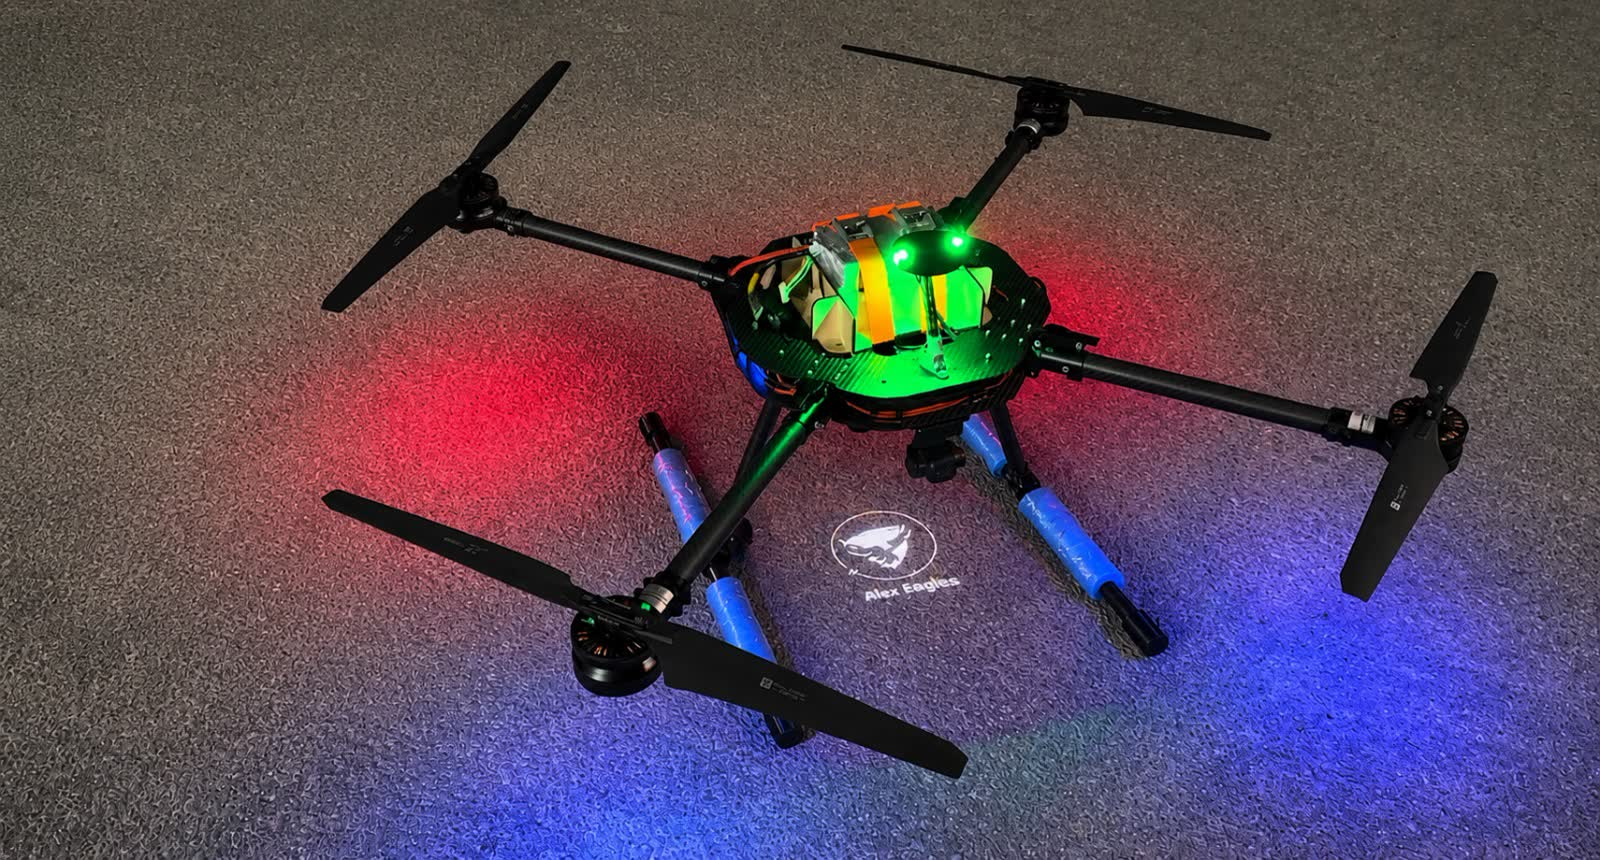
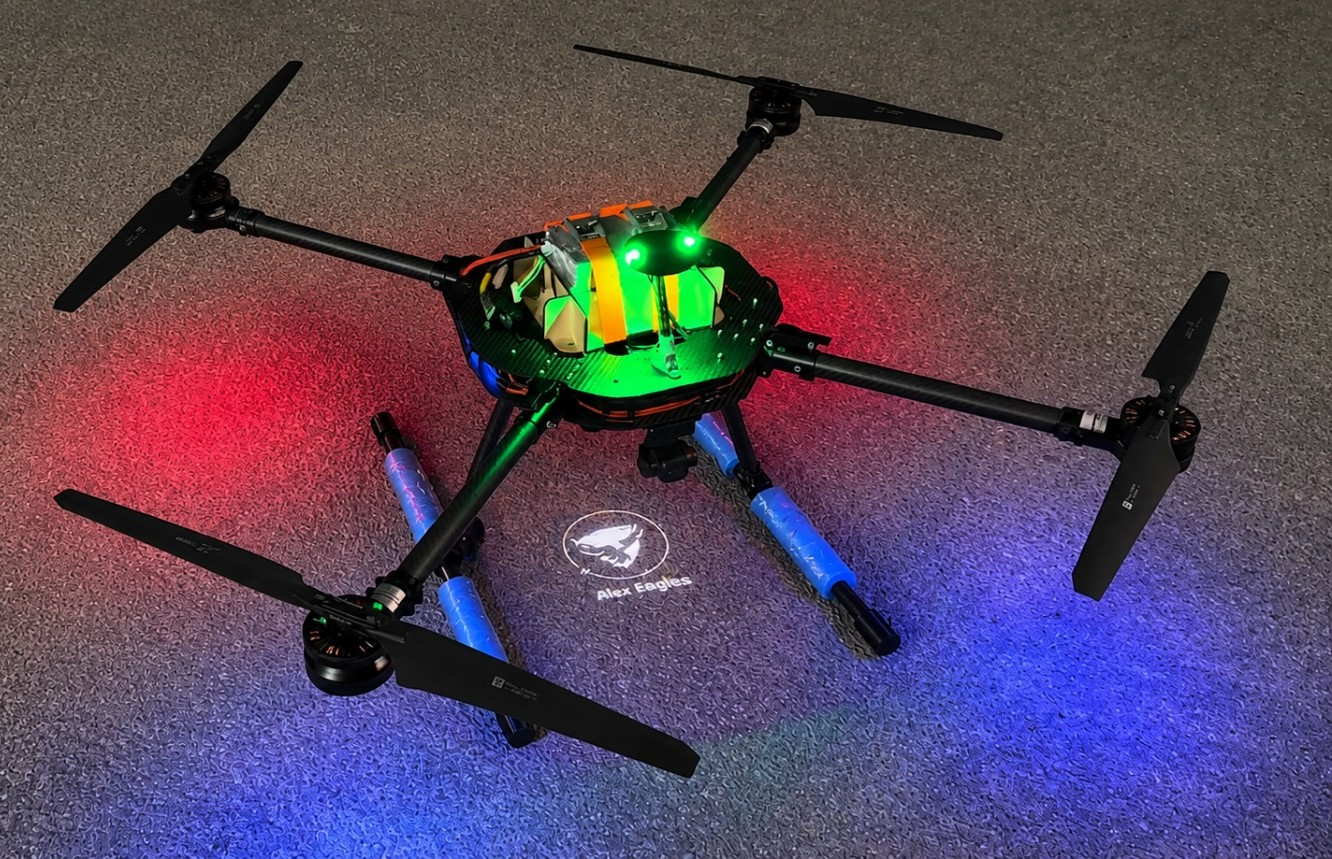
Show the flight photo unveiled and tighten the award cards
Drop the wash over the video section's photo in both themes, so the shot
reads at full strength.

The award cards top-anchor their competition and title with a small gap
instead of spreading them apart. The min-height sat above even the tallest
card's content, so every card carried a void between the year and the
title rather than only the short one.

Claude-Session: https://claude.ai/code/session_01JqhdQ3vnsRGTu9ehQGwP7Q

diff --git a/src/styles/Video.css b/src/styles/Video.css
@@ -70,34 +70,6 @@
   background-image: url("/Home/flight-backdrop-light.jpg");
 }
 
-/* Full-bleed on purpose: the wash is the same hue as --wf-bg, so it's
- * invisible everywhere the photo isn't and there's no edge to line up. Top
- * and bottom stops are the strongest, keeping the section's seams clean. */
-.video-photo-scrim {
-  position: absolute;
-  inset: 0;
-  z-index: 0;
-  background: linear-gradient(
-    180deg,
-    rgba(10, 14, 31, 0.92) 0%,
-    rgba(10, 14, 31, 0.58) 45%,
-    rgba(10, 14, 31, 0.94) 100%
-  );
-}
-
-/* Lighter than the dark wash and lighter than this photo used to carry
- * elsewhere on the page — the light-mode shot is bright enough that a heavy
- * white veil erased it, so this leans on the mask's horizontal falloff to
- * protect the copy instead of flooding the whole frame. */
-:root[data-theme="light"] .video-photo-scrim {
-  background: linear-gradient(
-    180deg,
-    rgba(255, 255, 255, 0.82) 0%,
-    rgba(255, 255, 255, 0.55) 45%,
-    rgba(255, 255, 255, 0.86) 100%
-  );
-}
-
 /* decorative watermark — sits in normal document flow, stacked above the
  * eyebrow/headline on the left, so it can never overlap the real text
  * regardless of viewport size (no absolute-position math to get wrong). */

diff --git a/src/styles/TrackRecord.css b/src/styles/TrackRecord.css
@@ -147,17 +147,14 @@
  * shadow, mid, and a wide soft cast) so each card reads as a solid object
  * standing on the panel, plus a 1px inner top highlight for the lit edge.
  *
- * The competition sits at the top and the award title is pushed to the
- * bottom, so titles of very different lengths ("Overall" vs "Best Technical
- * Design Report") still share a baseline across the row instead of each
- * floating at its own height. */
+ * Competition and title are top-anchored and tightly coupled. They used to be
+ * pushed apart to bottom-align titles across the row, but with a min-height
+ * above the tallest card's content that left a void in every card. */
 .tr-card {
   display: flex;
   flex-direction: column;
-  justify-content: space-between;
-  gap: 32px;
-  min-height: 210px;
-  padding: 26px 24px 28px;
+  gap: 10px;
+  padding: 20px 22px 22px;
   background: linear-gradient(180deg, #1a2544 0%, #121b34 100%);
   border: 1px solid var(--border-subtle);
   border-radius: var(--radius-md);

diff --git a/src/pages/Video.jsx b/src/pages/Video.jsx
@@ -13,7 +13,6 @@ export default function Video() {
       {/* Flight photo behind the copy column only (one per theme, picked in
           CSS), fading out before it reaches the embed on the right. */}
       <div className="video-photo" aria-hidden="true" />
-      <div className="video-photo-scrim" aria-hidden="true" />
 
       <div className="video-layout">
         <div className="video-content">
